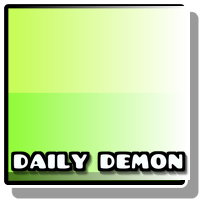
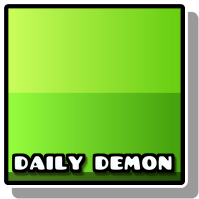
Fix button tile: keep right border, centre art on the tile not its shadow
Claude-Session: https://claude.ai/code/session_017GA9KGeFieH879pv23CEpq

diff --git a/src/main.cpp b/src/main.cpp
@@ -555,7 +555,7 @@ class $modify(DDCreatorLayer, CreatorLayer) {
 				// so its size in game units is not its pixel size) and kept above the lettering.
 				if (auto face = CCSprite::createWithSpriteFrameName("diffIcon_07_btn_001.png")) {
 					face->setScale(size.width * .64f / face->getContentSize().width);
-					face->setPosition({size.width / 2.f, size.height * .62f});
+					face->setPosition({size.width * .472f, size.height * .62f}); // tile art is 94/199 across; the rest is its drop shadow
 					bg->addChild(face);
 				}
 
